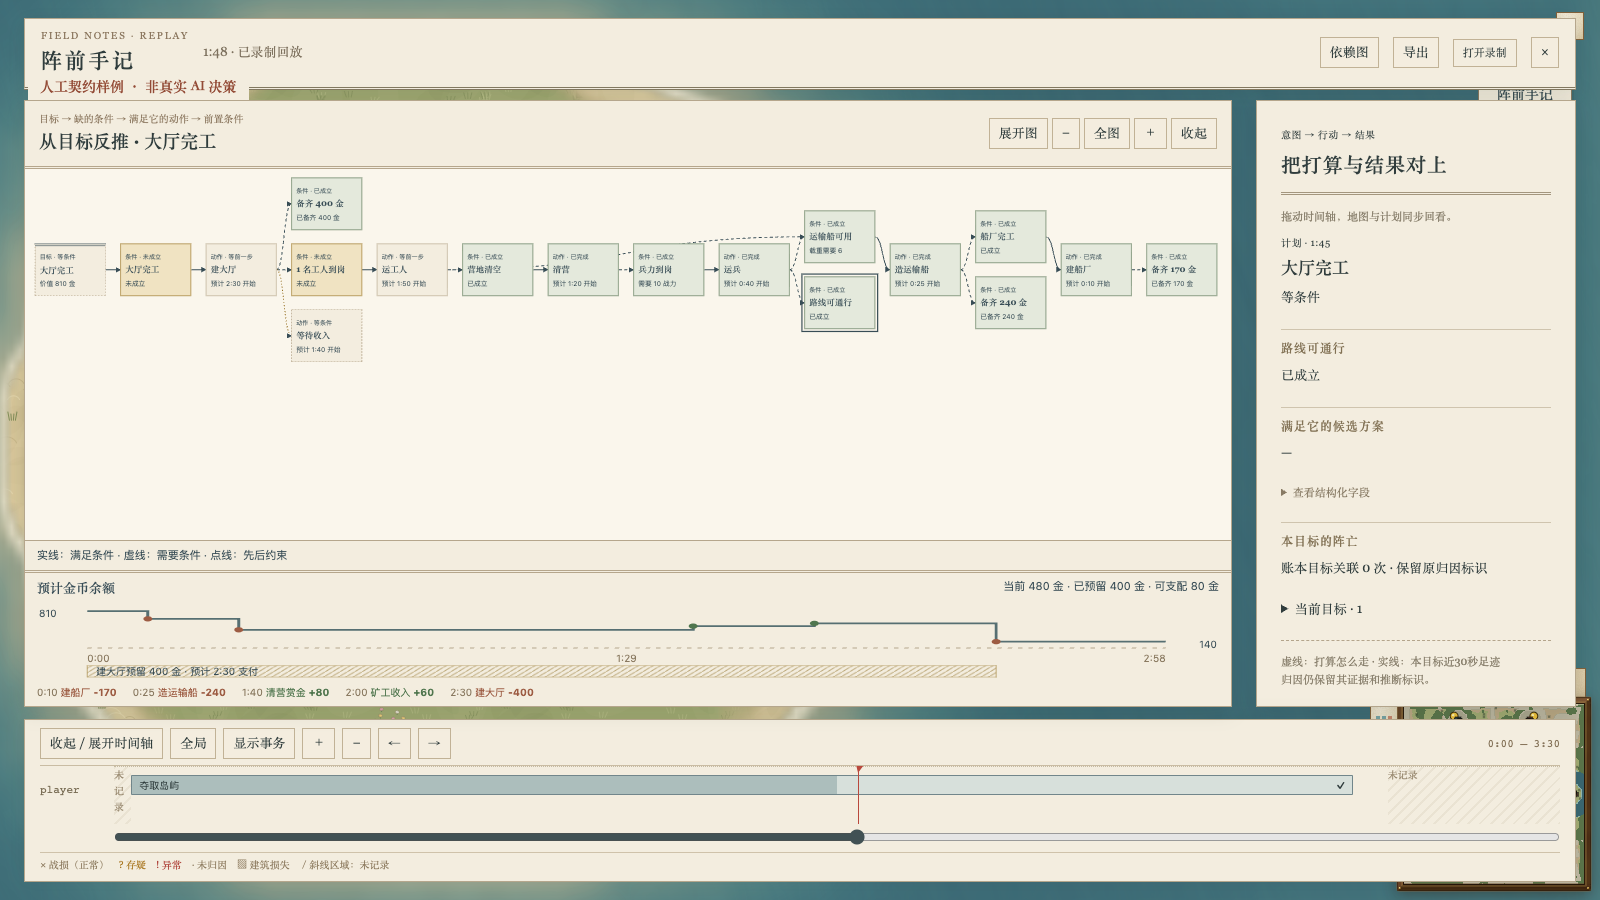
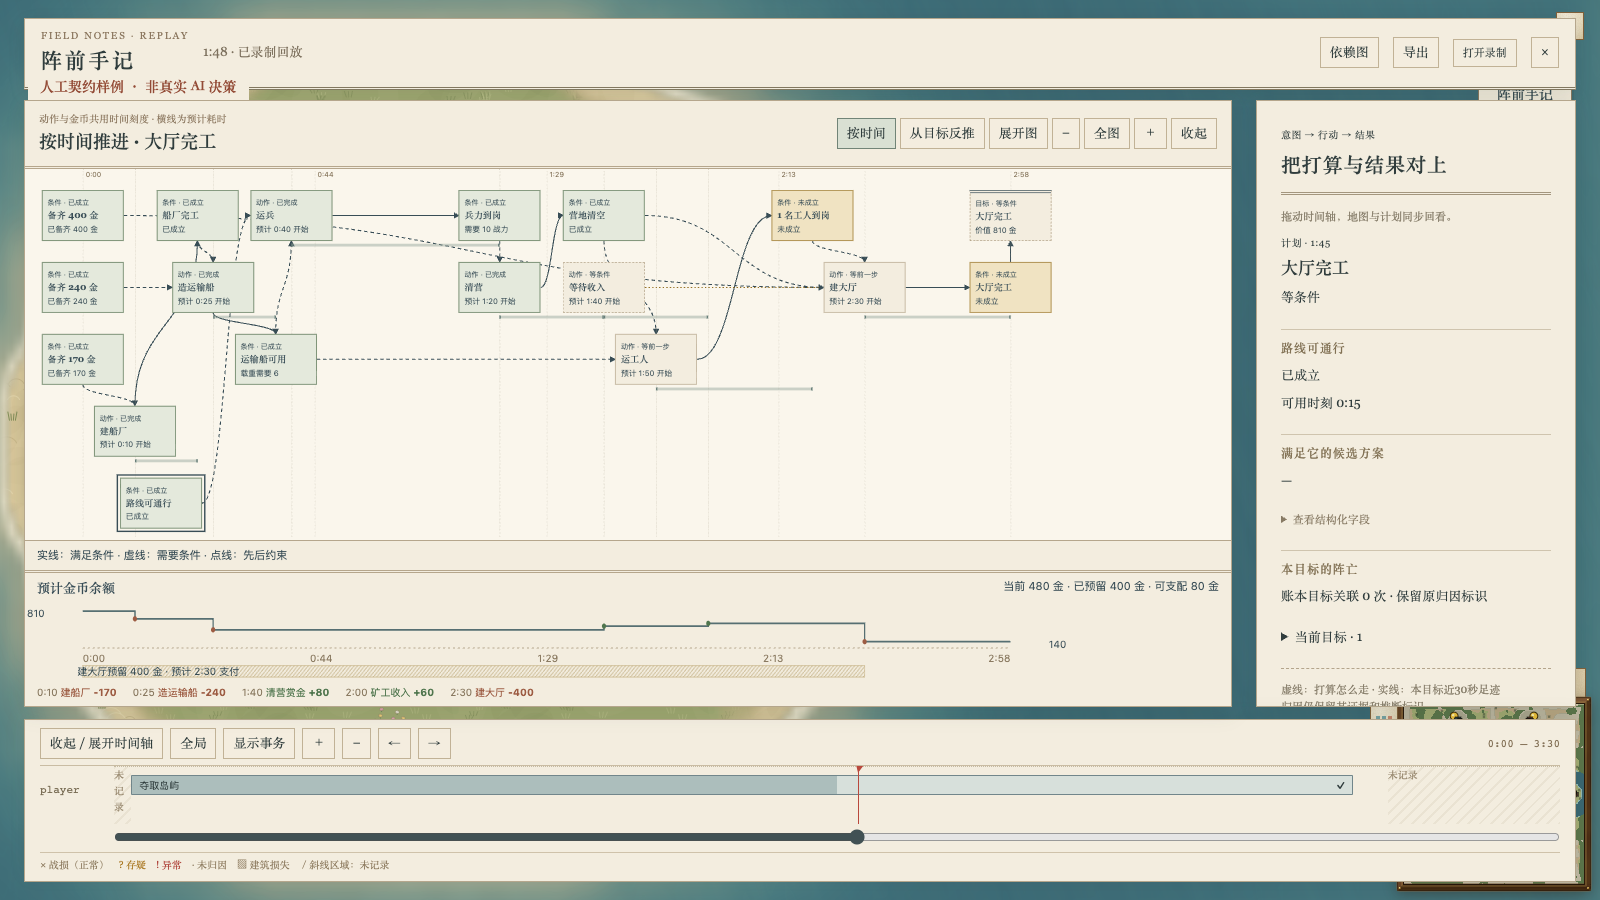
docs: capture the time-aligned goal graph on mac1

diff --git a/docs/ai/plan-viz/index.html b/docs/ai/plan-viz/index.html
@@ -1,1 +1,1 @@
-<!doctype html><html lang="zh-CN"><head><meta charset="utf-8"><meta name="viewport" content="width=device-width,initial-scale=1"><title>阵前手记 · 计划依赖图样稿</title><link rel="icon" href="data:,"><link rel="stylesheet" href="styles.css"><style>.chooser{max-width:1360px;margin:auto;padding:48px 40px}.chooser h1{margin:12px 0 16px}.intro{max-width:850px;font-size:15px;color:var(--muted)}.choices{display:grid;grid-template-columns:1fr 1fr;gap:28px;margin-top:30px}.choice{display:block;background:var(--paper-light);border:1px solid var(--ink);color:var(--ink);text-decoration:none;box-shadow:4px 4px 0 var(--shade)}.choice img{display:block;width:100%;height:410px;object-fit:cover;object-position:top;border-bottom:1px solid var(--line)}.choice .copy{padding:20px 23px}.choice h2{font-size:24px;margin-bottom:10px}.choice p{color:var(--muted);margin:8px 0}.choice .open{display:inline-block;border-bottom:1px solid var(--brass);margin-top:12px}.source-note{margin-top:28px;padding-top:20px;border-top:1px solid var(--line);color:var(--muted)}@media(max-width:820px){.chooser{padding:24px}.choices{grid-template-columns:1fr}.choice img{height:320px}}</style></head><body><main class="chooser"><div class="eyebrow">Sketch RTS / 墨线战图 / 目标依赖图样稿</div><h1>沿着依赖，看见打算怎样成为结果</h1><p class="intro">从目标反推条件与动作，沿时间核对金币和结果。新版用公开第 3 题“从零造海军”的人工数据展示分叉、汇合与大厅预留；下方保留历史双岸实战样稿。</p><a class="choice" href="goal-navy.html" style="margin-top:25px"><img src="goal-navy-layout.png" alt="人工样稿：目标、未成立的条件、动作方案、执行和结果的依赖图" style="height:auto;max-height:650px;object-fit:cover;object-position:top"><div class="copy"><div class="eyebrow">III / Goal Dependency / 人工公开题 3</div><h2>从零造海军</h2><p>左向右反推，船与金币分叉汇合；先支付船厂和船，再获赏金与收入，大厅保留 400 金。节点和侧栏说人话，内部字段可展开。</p><span class="open">打开目标依赖图样稿 →</span></div></a><a class="choice" href="timeline.html" style="margin-top:25px"><img src="preview-timeline-overview.webp" alt="第二版：战图、意图与结果面板，以及每个 AI 的目标时间泳道" style="height:auto;max-height:650px;object-fit:cover;object-position:top"><div class="copy"><div class="eyebrow">II / Intent and Consequence</div><h2>阵前手记 · 意图与回声</h2><p>真实双岸对局 0–15 分钟，阶段分段、拖选缩放与平移；单机默认关，联机只看自己，赛后回放看全部。</p><span class="open">打开第二版样稿 →</span></div></a><details style="margin-top:30px"><summary>查看第一轮样稿（风格与可见性选项的历史方案）</summary><section class="choices"><a class="choice" href="ink-map.html"><img src="preview-ink.webp" alt="阵前手记：浅色战图，右侧是目标和手记批注"><div class="copy"><div class="eyebrow">01 / Field Atlas</div><h2>阵前手记</h2><p>地图是主角，目标像写在纸边的批注。适合一边看战局，一边理解部队的意图。</p><span class="open">打开这版样稿 →</span></div></a><a class="choice" href="command-desk.html"><img src="preview-desk.webp" alt="将军案卷：深墨题头，左侧目标目录，战图上展开计划树"><div class="copy"><div class="eyebrow">02 / Command Desk</div><h2>将军案卷</h2><p>目标目录与战图并列，计划树像一张展开的军情卷宗。适合追踪原因、任务交接与变化。</p><span class="open">打开这版样稿 →</span></div></a></section></details><div class="source-note"><p>历史双岸记录：3:59–6:07 · 扩张闭环与 18 秒受阻；8:01 · 进攻放弃；正常 / 存疑 / 异常与未归因阵亡、建筑损失均可点开。</p><p>历史双岸样稿的地图、任务与变化来自实战记录；新版海军依赖图全部为人工数据，不作为规划器解题或执行证据。</p><p>页面可双击打开，无需联网。目标依赖图消费端已接线，新规划器生产端未启用，#576 保持 draft。</p></div></main></body></html>
+<!doctype html><html lang="zh-CN"><head><meta charset="utf-8"><meta name="viewport" content="width=device-width,initial-scale=1"><title>阵前手记 · 计划依赖图样稿</title><link rel="icon" href="data:,"><link rel="stylesheet" href="styles.css"><style>.chooser{max-width:1360px;margin:auto;padding:48px 40px}.chooser h1{margin:12px 0 16px}.intro{max-width:850px;font-size:15px;color:var(--muted)}.choices{display:grid;grid-template-columns:1fr 1fr;gap:28px;margin-top:30px}.choice{display:block;background:var(--paper-light);border:1px solid var(--ink);color:var(--ink);text-decoration:none;box-shadow:4px 4px 0 var(--shade)}.choice img{display:block;width:100%;height:410px;object-fit:cover;object-position:top;border-bottom:1px solid var(--line)}.choice .copy{padding:20px 23px}.choice h2{font-size:24px;margin-bottom:10px}.choice p{color:var(--muted);margin:8px 0}.choice .open{display:inline-block;border-bottom:1px solid var(--brass);margin-top:12px}.source-note{margin-top:28px;padding-top:20px;border-top:1px solid var(--line);color:var(--muted)}@media(max-width:820px){.chooser{padding:24px}.choices{grid-template-columns:1fr}.choice img{height:320px}}</style></head><body><main class="chooser"><div class="eyebrow">Sketch RTS / 墨线战图 / 目标依赖图样稿</div><h1>沿着依赖，看见打算怎样成为结果</h1><p class="intro">沿时间查看条件与动作，同时核对金币和结果；也可切换从目标反推。新版用公开第 3 题“从零造海军”的人工数据展示分叉、汇合与大厅预留；下方保留历史双岸实战样稿。</p><a class="choice" href="goal-navy.html" style="margin-top:25px"><img src="goal-navy-layout.png" alt="人工样稿：目标、未成立的条件、动作方案、执行和结果的依赖图" style="height:auto;max-height:650px;object-fit:cover;object-position:top"><div class="copy"><div class="eyebrow">III / Goal Dependency / 人工公开题 3</div><h2>从零造海军</h2><p>默认按时间从左到右，动作与金币带垂直对齐，船与金币分叉汇合；先支付船厂和船，再获赏金与收入，大厅保留 400 金。节点和侧栏说人话，内部字段可展开。</p><span class="open">打开目标依赖图样稿 →</span></div></a><a class="choice" href="timeline.html" style="margin-top:25px"><img src="preview-timeline-overview.webp" alt="第二版：战图、意图与结果面板，以及每个 AI 的目标时间泳道" style="height:auto;max-height:650px;object-fit:cover;object-position:top"><div class="copy"><div class="eyebrow">II / Intent and Consequence</div><h2>阵前手记 · 意图与回声</h2><p>真实双岸对局 0–15 分钟，阶段分段、拖选缩放与平移；单机默认关，联机只看自己，赛后回放看全部。</p><span class="open">打开第二版样稿 →</span></div></a><details style="margin-top:30px"><summary>查看第一轮样稿（风格与可见性选项的历史方案）</summary><section class="choices"><a class="choice" href="ink-map.html"><img src="preview-ink.webp" alt="阵前手记：浅色战图，右侧是目标和手记批注"><div class="copy"><div class="eyebrow">01 / Field Atlas</div><h2>阵前手记</h2><p>地图是主角，目标像写在纸边的批注。适合一边看战局，一边理解部队的意图。</p><span class="open">打开这版样稿 →</span></div></a><a class="choice" href="command-desk.html"><img src="preview-desk.webp" alt="将军案卷：深墨题头，左侧目标目录，战图上展开计划树"><div class="copy"><div class="eyebrow">02 / Command Desk</div><h2>将军案卷</h2><p>目标目录与战图并列，计划树像一张展开的军情卷宗。适合追踪原因、任务交接与变化。</p><span class="open">打开这版样稿 →</span></div></a></section></details><div class="source-note"><p>历史双岸记录：3:59–6:07 · 扩张闭环与 18 秒受阻；8:01 · 进攻放弃；正常 / 存疑 / 异常与未归因阵亡、建筑损失均可点开。</p><p>历史双岸样稿的地图、任务与变化来自实战记录；新版海军依赖图全部为人工数据，不作为规划器解题或执行证据。</p><p>页面可双击打开，无需联网。目标依赖图消费端已接线，新规划器生产端未启用，#576 保持 draft。</p></div></main></body></html>

diff --git a/docs/ai/plan-viz/goal-consumer.zh.md b/docs/ai/plan-viz/goal-consumer.zh.md
@@ -2,7 +2,7 @@
 
 #576 保持 draft，固定消费契约为 `feat/strategy-goal-planner` 的 `8afe8a35`。入口是 `AiPlanTrace.goalPlanner?: GoalPlannerOutput`；不调用规划器、事实源或动作 provider，不生成命令、兵力或预算。
 
-当前样稿：[从零造海军，双击打开](goal-navy.html)。它与游戏叠加层使用相同的渲染函数，由 `scripts/export-goal-plan-mockup.ts` 导出，单文件、无需联网。默认展开全图，点击节点后打开侧栏，支持缩放、查看原始字段和切换时间。
+当前样稿：[从零造海军，双击打开](goal-navy.html)。它与游戏叠加层使用相同的渲染函数，由 `scripts/export-goal-plan-mockup.ts` 导出，单文件、无需联网。默认按时间推进，点击节点后打开侧栏，支持缩放、查看原始字段和切换时间；也可切换“从目标反推”。
 
 ## 公开第 3 题的人工展示
 
@@ -16,9 +16,11 @@
 
 ## 阅读顺序与原始记录
 
-图上统一从左向右反推：目标 → 缺的条件 → 满足它的动作 → 动作的前置条件。实线表示满足条件，虚线表示需要条件，点线表示先后约束。共享条件在同一节点汇合。
+默认从左到右按时间排：最早动作在左，目标完成在右。动作中心对齐预计开始时刻，节点下的横线延伸至预计结束；支出、赏金与收入事件共用同一时间坐标。缩放和横向滚动时，图与金币带同步，竖向可对上哪一步花钱、哪一步入账。实线表示满足条件，虚线表示需要条件，点线表示先后约束；分叉和共享条件继续保留。
 
-这是视图投影：`establishes` 和 `resource-before` 在反推阅读方向展示，原始边、ID 和方向不修改，保留在“查看结构化字段”中。布局限制 200 个事实与动作；循环记录用明确标记的前向引用叶子保留，不反向画箭头。
+条件优先读取 availableTick，否则使用已观测时刻或所选生产动作声明的 start / finish / offset 时刻。缺时间的动作、条件及目标单放“时间未记录”，不拿零点或 deadline 补出 ETA。多个生产者缺任意一个 ETA 时保持未知。
+
+“从目标反推”切换保留目标 → 条件 → 动作 → 前置的阅读顺序，循环记录用前向引用叶子保留。两种模式都只投影视图，不改原始边、ID、方向或计划数据；结构化详情保留原记录。布局限制 200 个事实与动作。
 
 节点和侧栏用中文说明条件、动作、当前进度、预算及结果。pending 路线显示“等路线算完”；缺少执行者、时刻或数值时显示“—”。内部 ID、requestId、执行器代码、原生证据及完整声明收进结构化详情。候选方案仍保留选中/落选、成本、完成时间和原因。
 
@@ -32,7 +34,7 @@
 
 ## 验证
 
-代码源 `a23acc53df1c0517445afd49cfd86f77f4f191bf`：根/CLI tsc 均退出 0，10 文件 51 项通过。新增检查包括分叉与汇合、每条阅读边向右、原生边不可变、循环有界、先花后挣、400 金保护、并发预留合计及付款后的 0 预留。现有通路回归仍检查零构造、私有过滤、不可变回放、worker、观察开关前后逐命令和逐 tick 哈希一致。
+代码源 `d5ced6379e9010792129c3bf6b4e707b47de124f`：根/CLI tsc 均退出 0，10 文件 54 项通过。新增检查包括默认按时间排序、动作中心与金币事件共用坐标、未知 ETA 不补值、start / finish / offset 生效时刻、分叉与汇合、反推切换、原生边不可变、循环有界、先花后挣及 400 金保护。现有通路回归仍检查零构造、私有过滤、不可变回放、worker、观察开关前后逐命令和逐 tick 哈希一致。
 
 ```sh
 npx tsc --noEmit -p .
@@ -43,9 +45,9 @@ SKETCH_MACHINES=~/.config/sketch/machines-camps.json bin/sketch yatu ai-goal-pla
 SKETCH_MACHINES=~/.config/sketch/machines-camps.json bin/sketch yatu ai-goal-navy-mockup --ref HEAD --on mac1 --locale zh-CN --json
 ```
 
-mac1 使用真实 Metal GPU。游戏场景实际点击候选和预算、鼠标拖到清营后/完工/未记录时段；独立 HTML 从 file 打开并重开，检查预留、落选方案和结果。原图逐张查看；SHA256、实际拖动 tick 和来源见 [goal-consumer-capture.json](goal-consumer-capture.json)。本轮不跑胜率 benchmark；未把人工场景当作真实 AI 或性能验收，也未新增完整 src 测试。
+mac1 使用真实 Metal GPU。游戏场景实际点击候选和预算、鼠标拖到清营后/完工/未记录时段；独立 HTML 从 file 打开并重开。两处均测量 0:10 / 0:25 / 2:30 三次支出的节点中心与金币标记，默认、视图切换、放大并横向滚动 190px 后最大误差小于 0.02 CSS px；候选、预算、结果及未记录处理保持原样。原图逐张查看；SHA256、实际拖动 tick 和来源见 [goal-consumer-capture.json](goal-consumer-capture.json)。本轮不跑胜率 benchmark；未把人工场景当作真实 AI 或性能验收，也未新增完整 src 测试。
 
-CLI 增量复制会漏带 docs 文件，因此独立页面用该源的 git archive 放入 mac1 的独立目录 `runs/camps-navy-preview-a23acc53`；没有覆盖版本缓存。完整副本可直接运行常规命令。
+CLI 增量复制会漏带 docs 文件，因此独立页面用该源的 git archive 放入 mac1 的独立目录 `runs/camps-navy-preview-d5ced637`；没有覆盖版本缓存。完整副本可直接运行常规命令。
 
 ![人工样稿：完整分叉与金币预留](goal-navy-layout.png)
 ![游戏内人工样例：选中和落选的运兵方案](goal-contract-alternatives.png)

diff --git a/docs/ai/plan-viz/goal-dependency.zh.md b/docs/ai/plan-viz/goal-dependency.zh.md
@@ -1,6 +1,6 @@
 # 第一版目标依赖图（历史样稿）
 
-当前样稿已换成[从零造海军](goal-navy.html)，分叉、汇合、左向右反推和金币余额见[当前说明](goal-consumer.zh.md)。
+当前样稿已换成[从零造海军](goal-navy.html)，分叉、汇合、按时间推进与金币对齐见[当前说明](goal-consumer.zh.md)。
 
 以下保留第一版来源。[打开历史样稿](goal-dependency.html)。HTML、CSS、JS 随目录提供，无联网、服务端或游戏依赖；正文采用系统中文字体。
 
